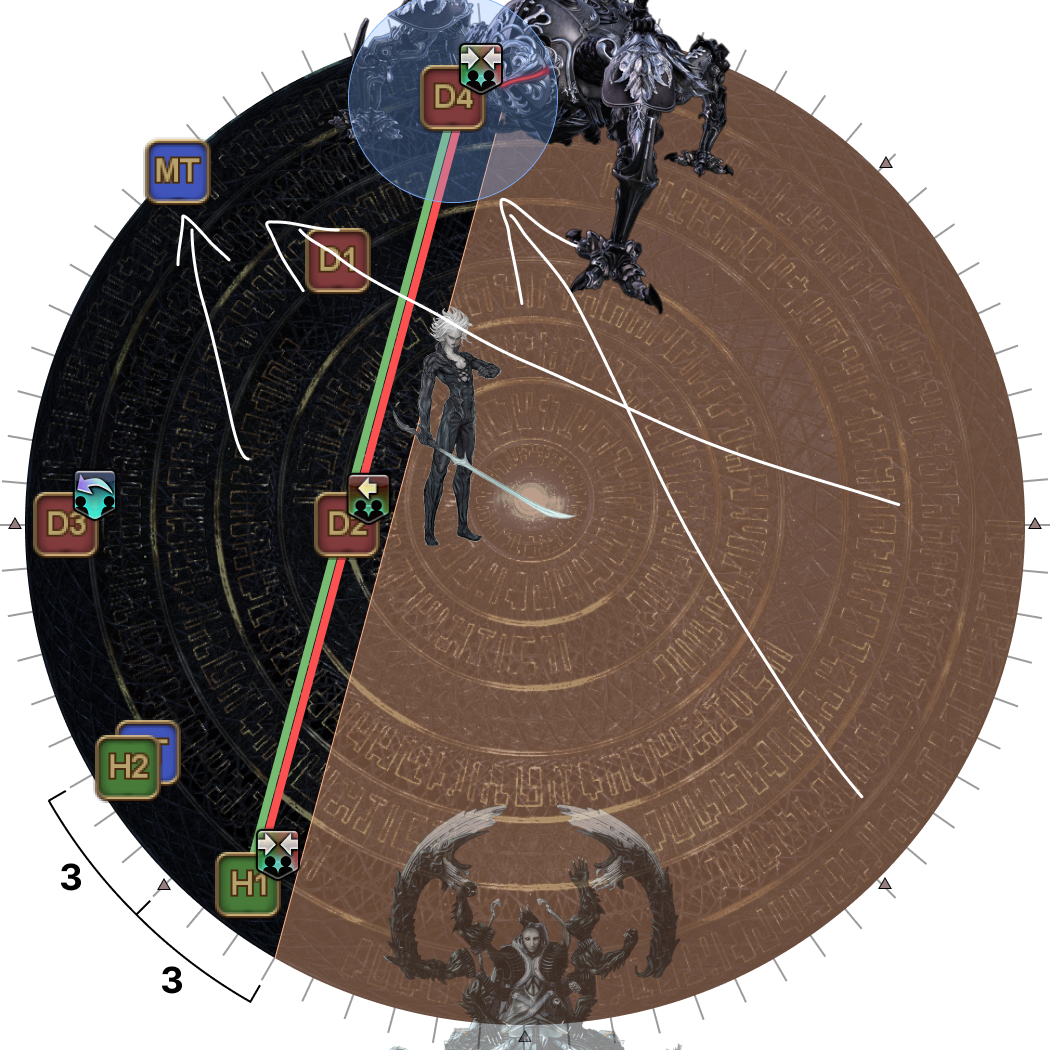
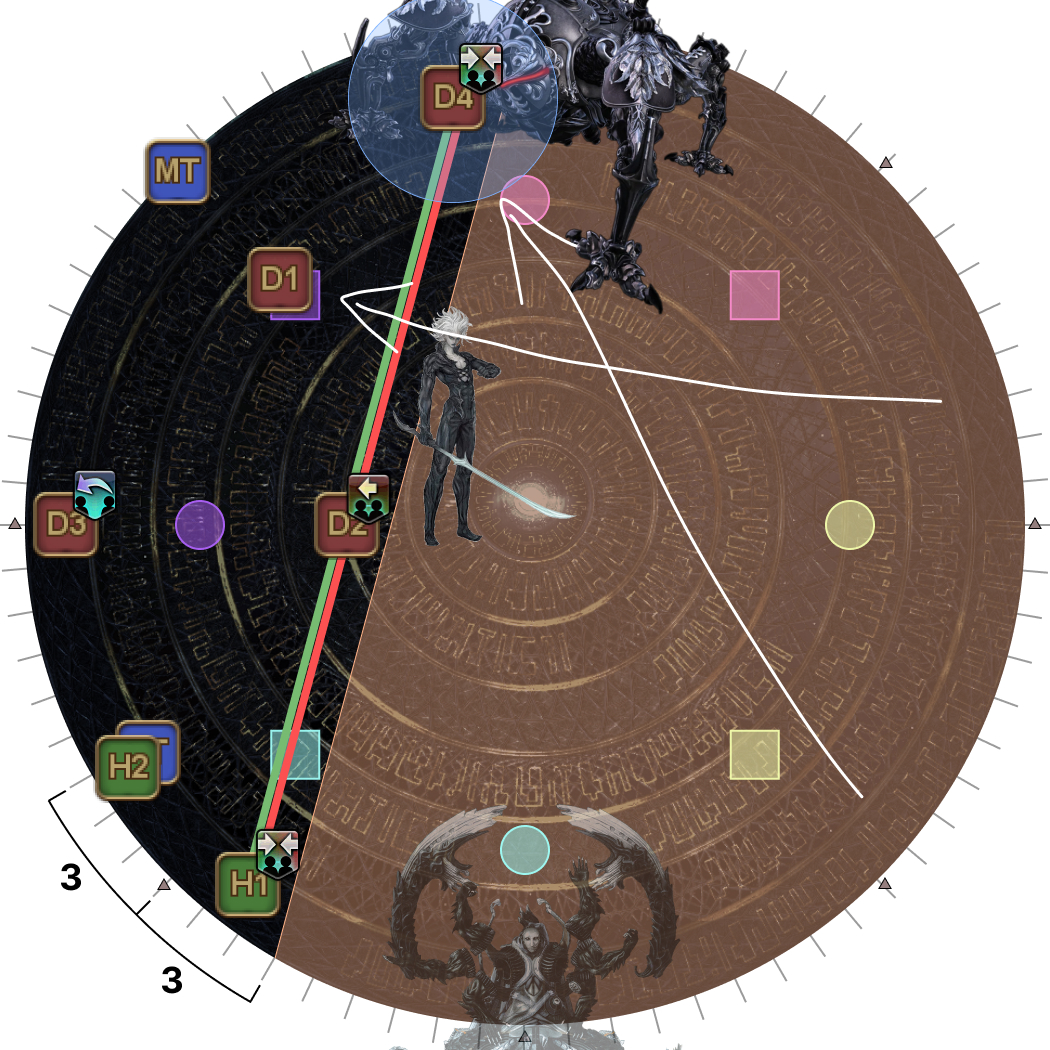
Add details to Dynamis jump positions (Delta)

diff --git a/ultimates/top/en/05a_run_dynamis_delta.md b/ultimates/top/en/05a_run_dynamis_delta.md
@@ -267,7 +267,14 @@ resolve Hello, Near World and Hello, Distant World.
         <ol>
           <li>Break the tether when the <b>tether's debuff timer reaches 15
           seconds</b>.</li>
-          <li>Position to receive Hello, Near World.</li>
+          <li>Position to receive Hello, Near World:
+            <ul>
+              <li>The player on the safe side goes to the <b>edge</b>, at the
+              intercardinal position.</li>
+              <li>The player on the unside side goes to the <b>marker</b> at
+              the intercardinal position.</li>
+            </ul>
+          </li>
         </ol>
       </li>
       <li><b>The green-tether pair away from Beetle Omega:</b>
@@ -278,17 +285,19 @@ resolve Hello, Near World and Hello, Distant World.
       </li>
       <li><b>Hello, Near World:</b>
         <ul>
-          <li>Stand three rings from the center.</li>
+          <li>Stand <b>three rings from the center</b> along the cardinal
+          between the two bosses.</li>
         </ul>
       </li>
       <li><b>Hello, Distant World:</b>
         <ul>
-          <li>Stand at the outer cardinal position.</li>
+          <li>Stand at the <b>edge</b> along the cardinal between the two
+          bosses.</li>
         </ul>
       </li>
       <li><b>The two remaining blue-tethers without either Hello, World:</b>
         <ul>
-          <li>Stand towards Final Omega, three notches away from the
+          <li>Stand towards Final Omega, but three notches <b>away</b> from the
           intercardinal mark- you will <em>not</em> be getting Dynamis stacks
           this round.</li>
         </ul>
